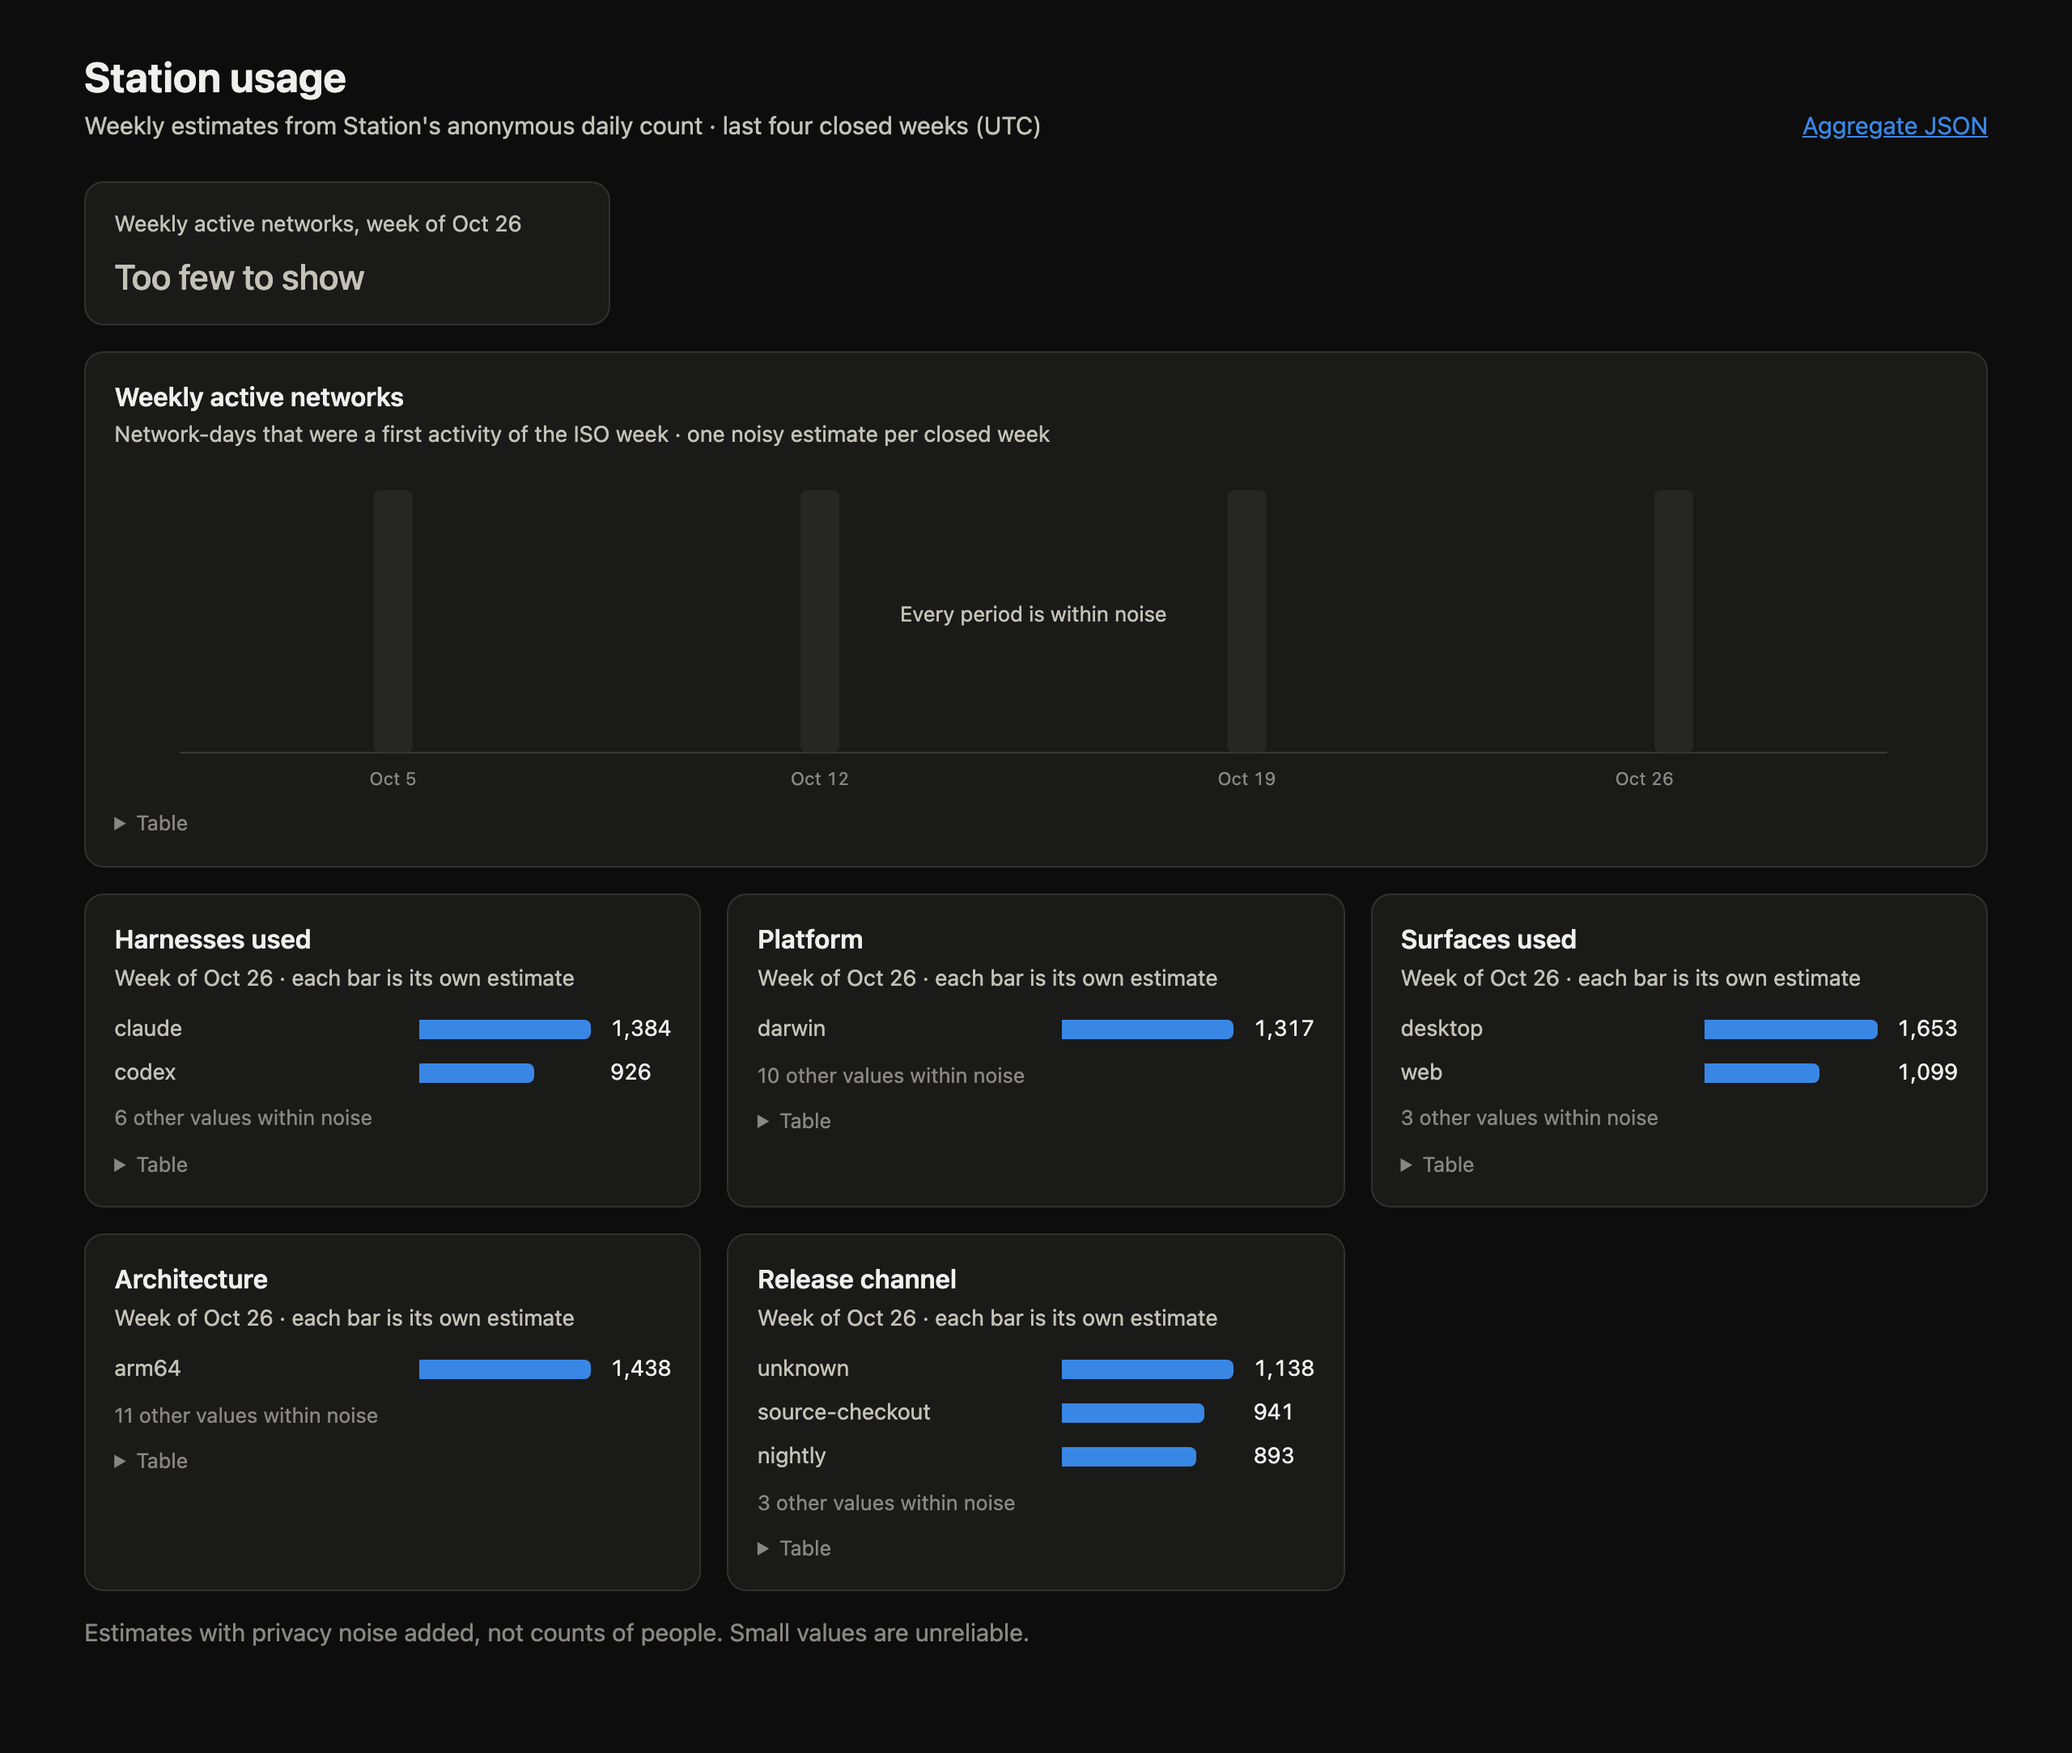
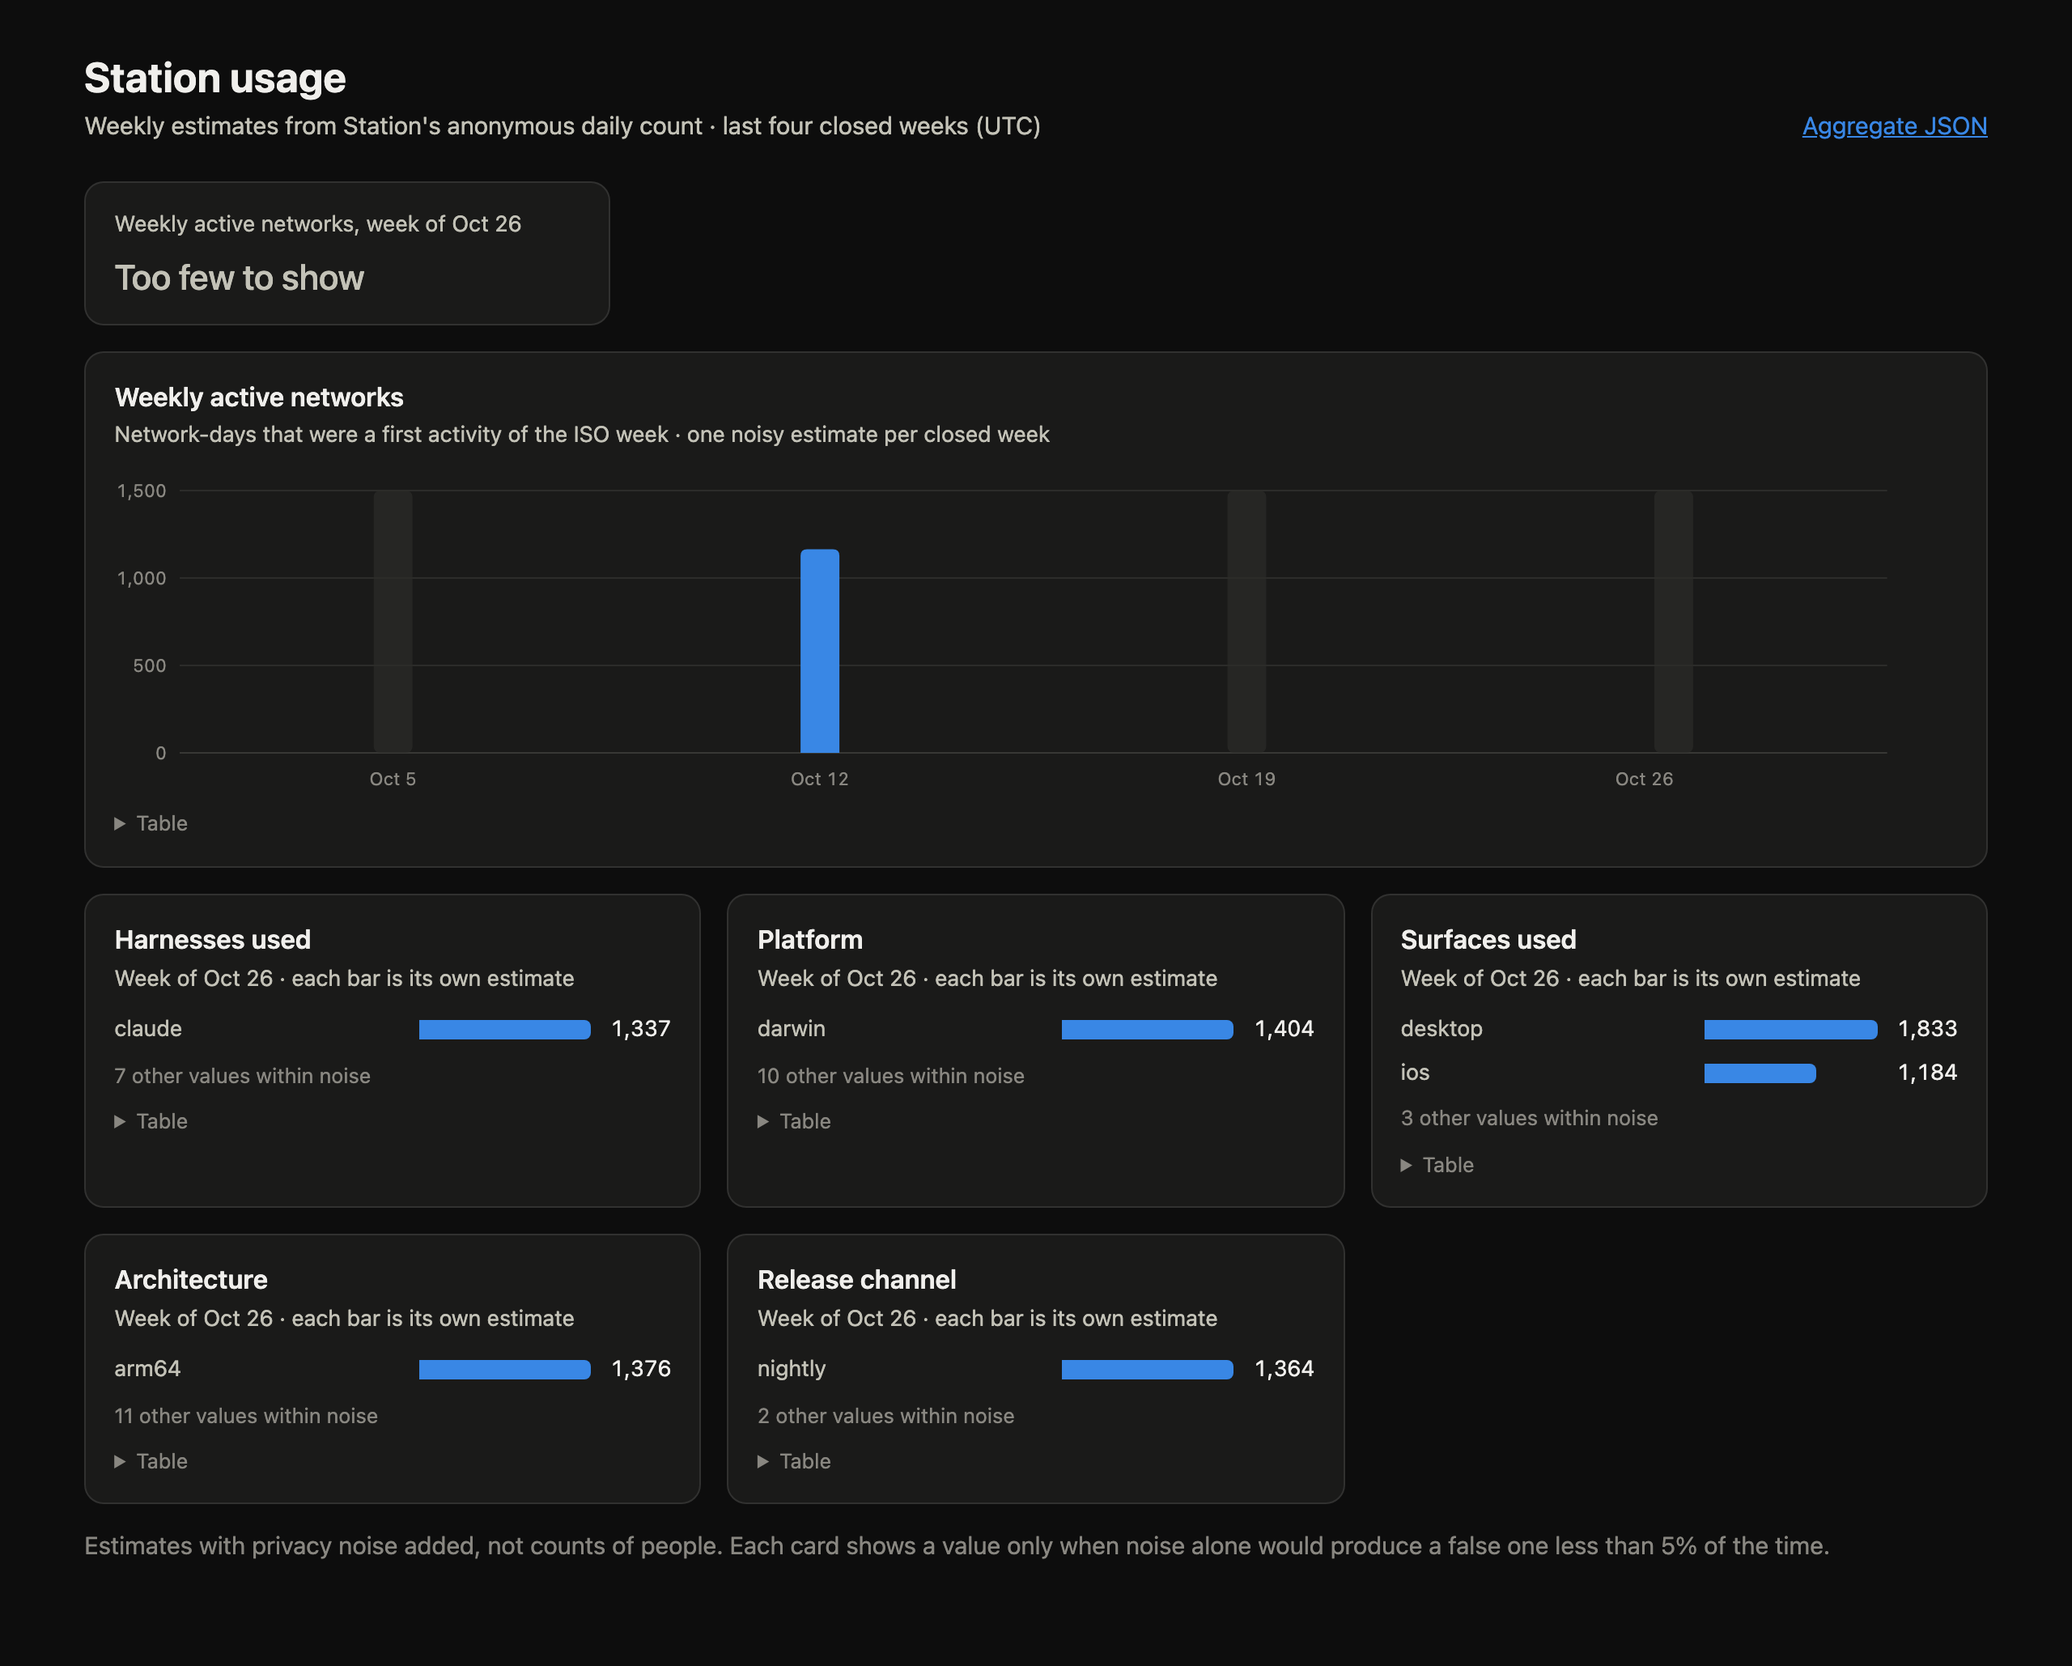
docs(telemetry): re-shoot the captures after the per-card noise threshold

diff --git a/.github/pr-evidence/telemetry-lite-worker/README.md b/.github/pr-evidence/telemetry-lite-worker/README.md
@@ -1,10 +1,10 @@
 # Lite Worker dashboards captures
 
 Before: `8f2f68267f0d694fe283ae323d017a7c8fb410f3` (the public page served by the
-Node receiver). After: `fdbeafe9947e` (one `station` source; the public page
-shows no number at or below the noise bound, folds those values into
-"N other values within noise", and names a leader only above the
-difference bound).
+Node receiver). After: `38dcdd70ce8f` (one `station` source; channel cells
+are the provisioned channels; each public card shows a value only above its
+Bonferroni threshold, folds the rest into "N other values within noise", and
+names a leader only above the difference bound).
 
 Every capture uses synthetic data. `deploy/telemetry-worker/test/preview-server.ts --with-tokens`
 seeds about four months of generated pings through the real `LiteReceiver`
